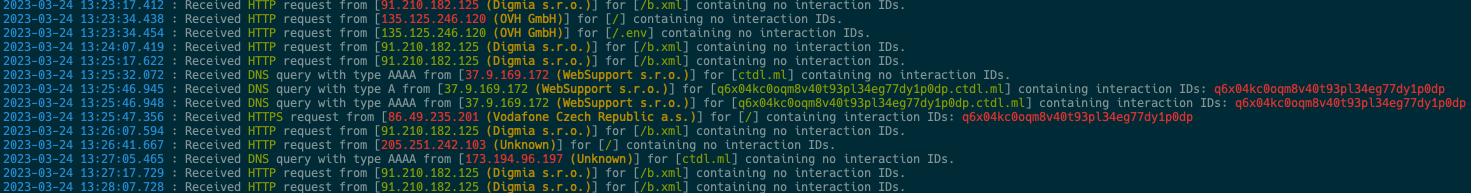
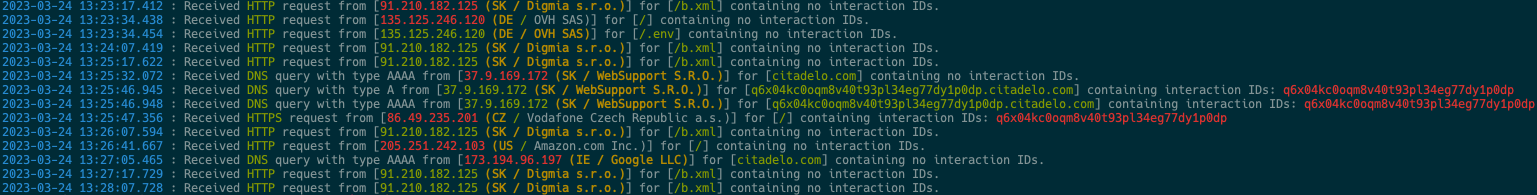
switched API to ip2location.io, added country code to info

Changed region(s): [[0.0, 0.0, 1.0, 1.0]]

diff --git a/co2.go b/co2.go
@@ -5,19 +5,20 @@ import (
 	"encoding/json"
 	"flag"
 	"fmt"
+	"io"
 	"net/http"
 	"os"
 	"regexp"
 	"strings"
 
 	color "github.com/fatih/color"
-	gojsonq "github.com/thedevsaddam/gojsonq/v2"
 )
 
 // ipCache is map to store the runtime cache for ip owners to save API calls and identify the first occurance of IP in log
 type ipcache map[string]string
 
 var ipCache = make(ipcache)
+var apiKey string = ""
 
 // isCached checks if the IP is already cached
 func isCached(ipCache ipcache, ip string) bool {
@@ -73,6 +74,12 @@ func main() {
 	// Restore cache from file if it exists
 	if _, err := os.Stat(cacheFile); err == nil {
 		_ = cacheLoad(ipCache, cacheFile)
+	}
+
+	apiKey = os.Getenv("IP2LOCATION_API_KEY")
+	if apiKey == "" {
+		fmt.Println("IP2LOCATION_API_KEY environment variable is not set.")
+		os.Exit(1)
 	}
 
 	// Regexp for line parts
@@ -137,22 +144,41 @@ func getOwner(ip string) (string, bool) {
 // Retrieves the name of the owner of an IP address using the Whois API
 func getNewOwner(ip string) string {
 
-	// json.objects.object[0]["resource-holder"].key = "ORG-Ds65-RIPE";
-	url := fmt.Sprintf("http://rest.db.ripe.net/search.json?query-string=%s&resource-holder=true&type-filter=inetnum", ip)
+	type Location struct {
+		IP          string  `json:"ip"`
+		CountryCode string  `json:"country_code"`
+		CountryName string  `json:"country_name"`
+		RegionName  string  `json:"region_name"`
+		CityName    string  `json:"city_name"`
+		Latitude    float64 `json:"latitude"`
+		Longitude   float64 `json:"longitude"`
+		ZipCode     string  `json:"zip_code"`
+		TimeZone    string  `json:"time_zone"`
+		ASN         string  `json:"asn"`
+		AS          string  `json:"as"`
+		IsProxy     bool    `json:"is_proxy"`
+	}
 
-	// TODO: timeout
+	url := fmt.Sprintf("https://api.ip2location.io/?key=%s&ip=%s", apiKey, ip)
+
 	resp, err := http.Get(url)
 	if err != nil {
-		return "Unknown"
+		panic(err)
 	}
 	defer resp.Body.Close()
 
-	result, err := gojsonq.New().Reader(resp.Body).From("objects").FindR("object.[0].resource-holder.name")
+	body, err := io.ReadAll(resp.Body)
 	if err != nil {
-		// TODO: try to get netname as fallback
-		return "Unknown"
+		panic(err)
 	}
-	name, _ := result.String()
+
+	var loc Location
+	err = json.Unmarshal(body, &loc)
+	if err != nil {
+		panic(err)
+	}
+
+	name := fmt.Sprintf("%s / %s", loc.CountryCode, loc.AS)
 
 	return name
 }

diff --git a/co2_test.go b/co2_test.go
@@ -1,16 +1,31 @@
 package main
 
 import (
+	"fmt"
 	"os"
 	"reflect"
 	"testing"
 )
 
+func setup() {
+	apiKey = os.Getenv("IP2LOCATION_API_KEY")
+	if apiKey == "" {
+		fmt.Println("IP2LOCATION_API_KEY environment variable is not set.")
+		os.Exit(1)
+	}
+}
+
+func TestMain(m *testing.M) {
+	setup()
+	code := m.Run()
+	os.Exit(code)
+}
+
 func Test_getNewOwner_positive(t *testing.T) {
 	ip := "91.210.181.37"
 	result, _ := getOwner(ip)
-	if result != "Digmia s.r.o." {
-		t.Error("incorrect result: expected 'Digmia s.r.o.', got", result)
+	if result != "SK / Digmia s.r.o." {
+		t.Error("incorrect result: expected 'SK / Digmia s.r.o.', got", result)
 	} else {
 		t.Logf("[Test_getOwner] %s -> %s\n", ip, result)
 	}
@@ -19,11 +34,12 @@ func Test_getNewOwner_positive(t *testing.T) {
 
 func Test_getNewOwner_negative(t *testing.T) {
 	ip := "192.168.0.1"
-	result, _ := getOwner(ip)
-	if result != "Unknown" {
-		t.Error("incorrect result: expected 'Unknown', got", result)
+	result, isHit := getOwner(ip)
+	fmt.Printf("cache: %t\n", isHit)
+	if result != "- / -" {
+		t.Error("incorrect result: expected '- / -', got", result)
 	} else {
-		t.Logf("[Test_getOwner] %s -> %s\n", ip, result)
+		t.Logf("[Test_getOwner] %s -> %s (%t)\n", ip, result, isHit)
 	}
 
 }
@@ -31,7 +47,7 @@ func Test_getNewOwner_negative(t *testing.T) {
 func Test_colorize(t *testing.T) {
 
 	ip := []string{"37.9.169.172"}
-	target := "q6x04kc0oqm8v40t93pl34eg77dy1p0dp.ctdl.ml"
+	target := "q6x04kc0oqm8v40t93pl34eg77dy1p0dp.ctl.sk"
 	token := " q6x04kc0oqm8v40t93pl34eg77dy1p0dp" // token has a leading space
 
 	testline, err := os.ReadFile("testdata/testline.txt")

diff --git a/README.md b/README.md
@@ -7,17 +7,21 @@
 
 ## Features
 
-* Amends the source IP address with the name of its resource holder (IP block owner) obtained from RIPE DB.
+* Amends the source IP address with the name of its resource holder (IP block owner + Country code) obtained from [ip2location.io](https://www.ip2location.io/).
 * Color highlighting to look more 1337 and to replace [ccze](https://github.com/cornet/ccze).
-* Runtime cache to minimize API calls and to identify new IPs in log (first occurence)
-* Persistent IP cache stored in json, also usable as custom IP annotations
+* Runtime cache to minimize API calls and to identify new IPs in log (first occurence = red, cached = green).
+* Persistent IP cache stored in json, also usable as custom IP annotations.
+* Show interactions only.
 
 ### Planed features
 
-* Parse input from locale file
+* ~~Parse input from locale file~~ Just use `cat` to process local files.
 * Log minification for interaction polling on android phones (`termux`)
 
 ## Usage
+
+As [ip2location.io](https://www.ip2location.io/) requires and API key do not forget to `export IP2LOCATION_API_KEY="YOURAPIKEYHERELOL"` . You should be ok with the 30,000 form the free plan.
+
 
 ```
 Usage of ./co2:
